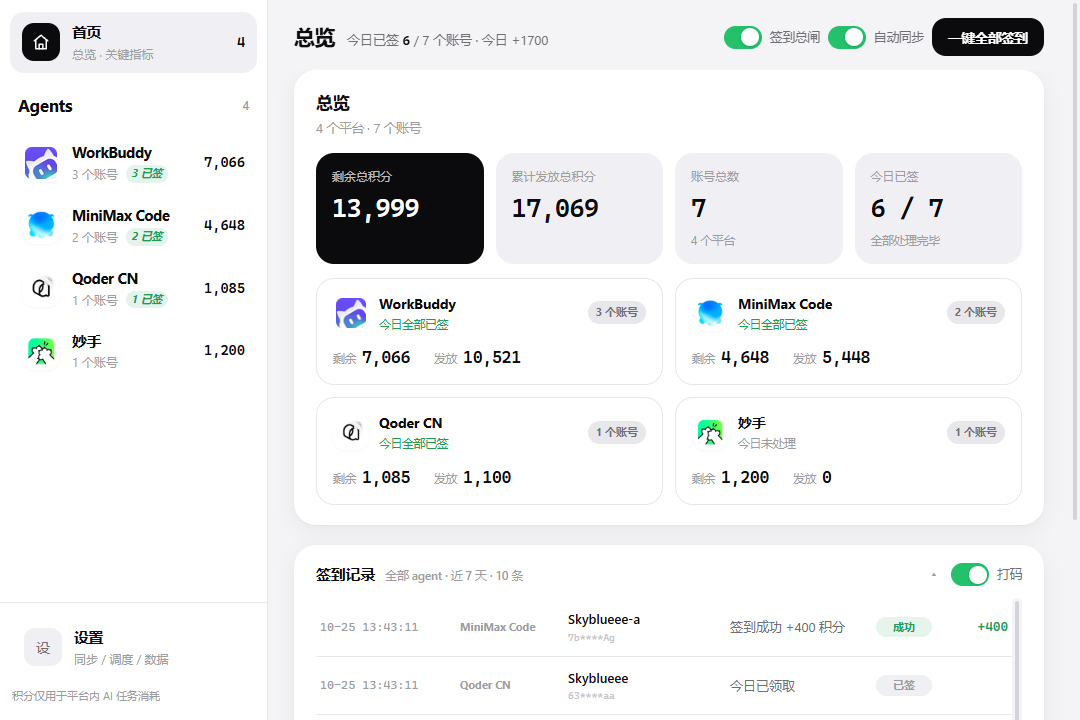
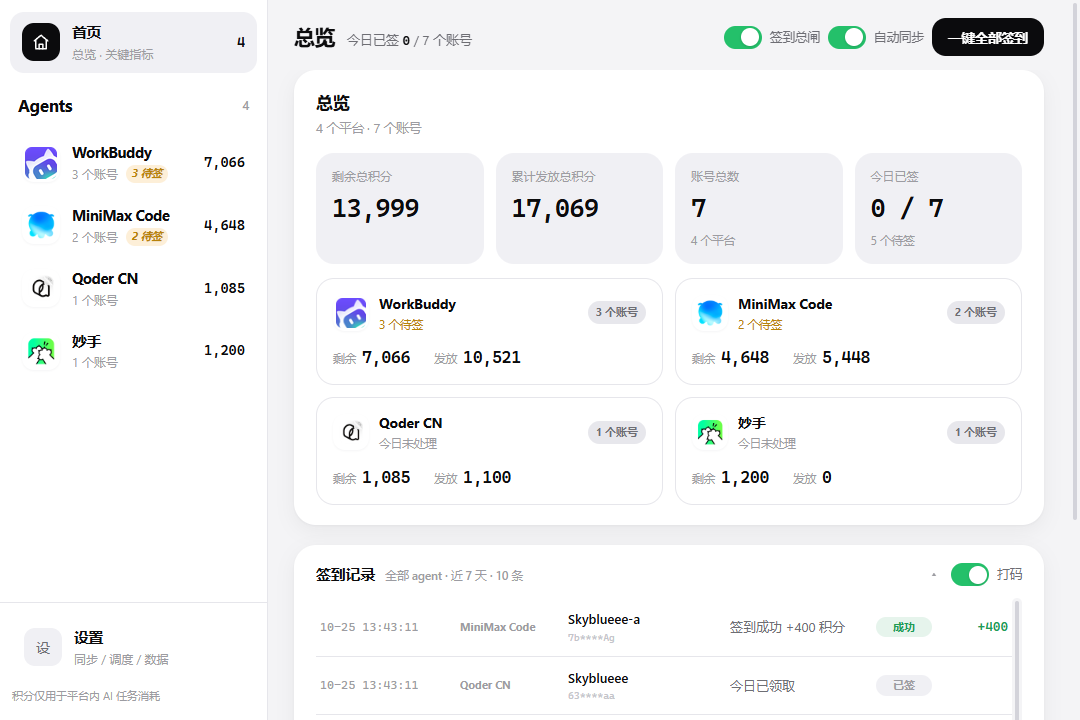
style: 首页指标卡去掉黑色主卡，四张卡统一浅色（视觉降噪）

diff --git a/src/components/DashboardPanel.tsx b/src/components/DashboardPanel.tsx
@@ -24,7 +24,7 @@ export default function DashboardPanel({ overview, groups, onOpenAgent }: Props)
   const claimableCount = groups.reduce((s, g) => s + g.claimableCount, 0);
 
   const stats = [
-    { label: "剩余总积分", value: fmtPoints(totalRemaining), accent: true },
+    { label: "剩余总积分", value: fmtPoints(totalRemaining) },
     { label: "累计发放总积分", value: fmtPoints(totalGranted) },
     { label: "账号总数", value: String(accountCount), sub: `${groups.length} 个平台` },
     {
@@ -50,7 +50,7 @@ export default function DashboardPanel({ overview, groups, onOpenAgent }: Props)
       {/* ---------- 全局关键指标 ---------- */}
       <div className="dash-stats">
         {stats.map((s) => (
-          <div key={s.label} className={`dash-stat ${s.accent ? "accent" : ""}`}>
+          <div key={s.label} className="dash-stat">
             <span className="dash-stat-label">{s.label}</span>
             <span className="dash-stat-value">{s.value}</span>
             {s.sub && <span className="dash-stat-sub">{s.sub}</span>}

diff --git a/src/styles.css b/src/styles.css
@@ -1584,17 +1584,6 @@ button:disabled {
   flex-direction: column;
   gap: 4px;
 }
-.dash-stat.accent {
-  background: var(--accent);
-  color: #fff;
-}
-.dash-stat.accent .dash-stat-label,
-.dash-stat.accent .dash-stat-sub {
-  color: color-mix(in srgb, #fff 72%, transparent);
-}
-.dash-stat.accent .dash-stat-value {
-  color: #fff;
-}
 .dash-stat-label {
   font-size: 12px;
   font-weight: 500;
